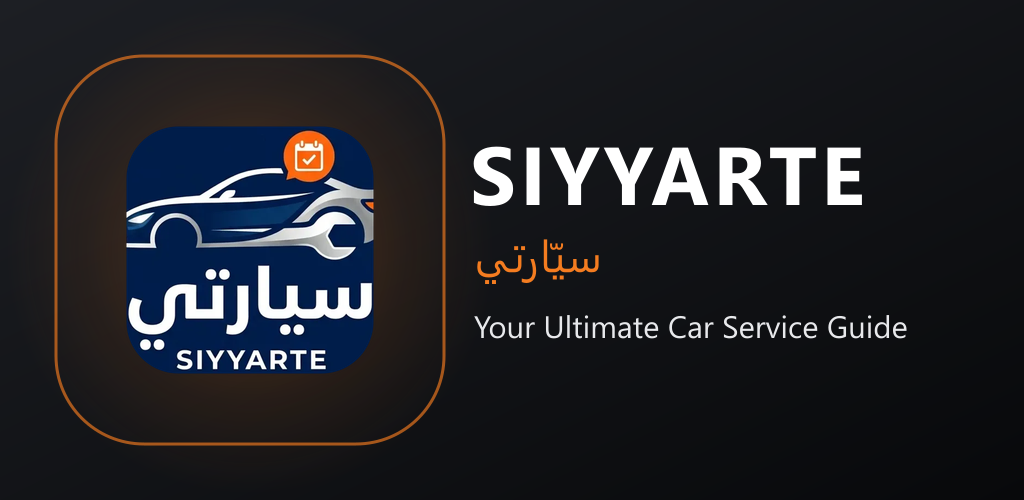
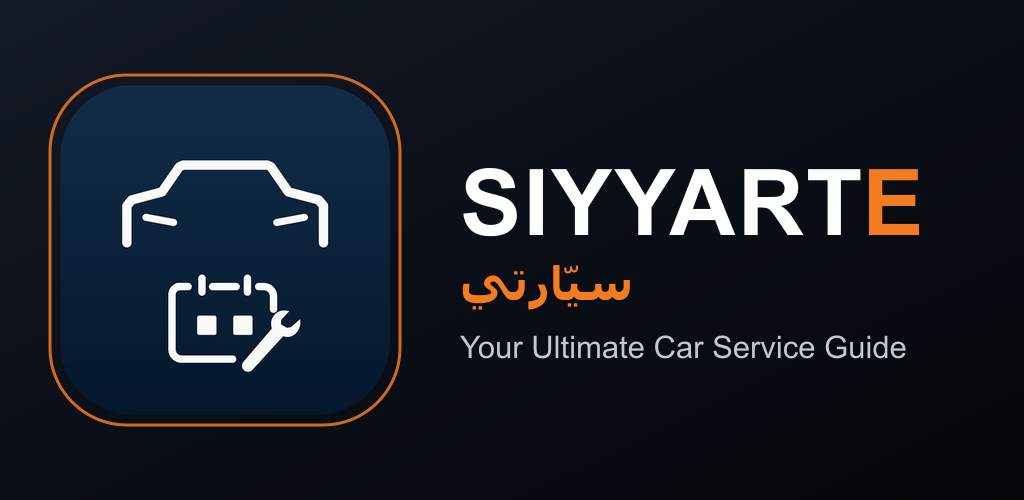
Fix Play policy blockers: target Android 16 (API 36) + Billing Library 8
Two Play policies (enforced Aug 31, 2026) were blocking app updates:
- Target API: set compileSdk/targetSdk = 36 (android-36 SDK already installed);
  bump minSdk to 24 (required by RevenueCat 11); suppress AGP's benign
  untested-compileSdk warning. Verified targetSdkVersion=36 in the built manifest.
- Billing Library: upgrade purchases_flutter 8.11.0 -> 11.0.1, which bundles
  Google Play Billing Library 8 (purchases-hybrid-common 20.3.0). Migrated the
  one deprecated call purchasePackage -> purchase(PurchaseParams.package(...)).
  All other RevenueCat usage (configure/getOfferings/getCustomerInfo/logIn/
  restorePurchases/entitlements) is unchanged core API.

Also refresh the Play feature graphic (1024x500) to the new car-calendar-wrench
logo to match the new app icon.

Note: billing is revenue-critical and the purchase flow must be verified on a
real device via the closed-test track before publishing.

Changed region(s): [[0.0312, 0.09, 0.9062, 0.9], [0.375, 0.84, 0.4062, 0.87], [0.375, 0.12, 0.4062, 0.15]]

diff --git a/lib/features/premium/purchase_service_io.dart b/lib/features/premium/purchase_service_io.dart
@@ -66,7 +66,7 @@ class PurchaseService {
     if (!available) return false;
     final pkg = await _package();
     if (pkg == null) return false;
-    await Purchases.purchasePackage(pkg);
+    await Purchases.purchase(PurchaseParams.package(pkg));
     final info = await Purchases.getCustomerInfo();
     return _isPlus(info);
   }
